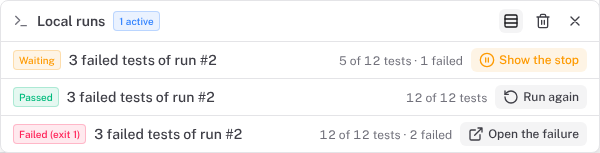
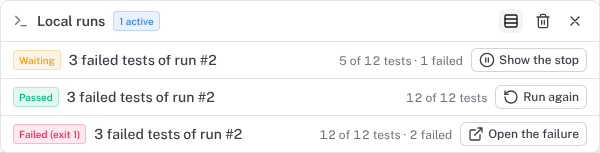
fix(ui): show a stop from the tray's compact line with a neutral button
The compact line's Show the stop was a warning soft button. Every action of
a line other than Stop is a neutral outlined button, as the app's one
accent rule asks; Stop keeps the error tone of the card's Stop.

Claude-Session: https://claude.ai/code/session_01ADXAbeVo5hXs63eeexKcKH

diff --git a/apps/application/app/components/desktop/DesktopLocalRunsTray.vue b/apps/application/app/components/desktop/DesktopLocalRunsTray.vue
@@ -236,7 +236,8 @@ function lineProgress(run: LocalRun): string {
 interface LineAction {
   label: string;
   icon: string;
-  color: 'error' | 'neutral' | 'warning';
+  /** Stop is the error tone the card's Stop has; every other action is neutral, outlined. */
+  color: 'error' | 'neutral';
   run: () => void;
 }
 
@@ -247,7 +248,7 @@ function lineAction(run: LocalRun): LineAction | null {
       return {
         label: 'Show the stop',
         icon: 'i-lucide-circle-pause',
-        color: 'warning',
+        color: 'neutral',
         run: () => {
           setExpanded(run, true);
           hub.chooseTab(stopped.session.ref, stopped.worker.parallelIndex);
@@ -379,7 +380,7 @@ function lineAction(run: LocalRun): LineAction | null {
               v-if="lineAction(run)"
               size="xs"
               :color="lineAction(run)!.color"
-              variant="soft"
+              :variant="lineAction(run)!.color === 'error' ? 'soft' : 'outline'"
               :icon="lineAction(run)!.icon"
               class="shrink-0"
               @click="lineAction(run)!.run()"
